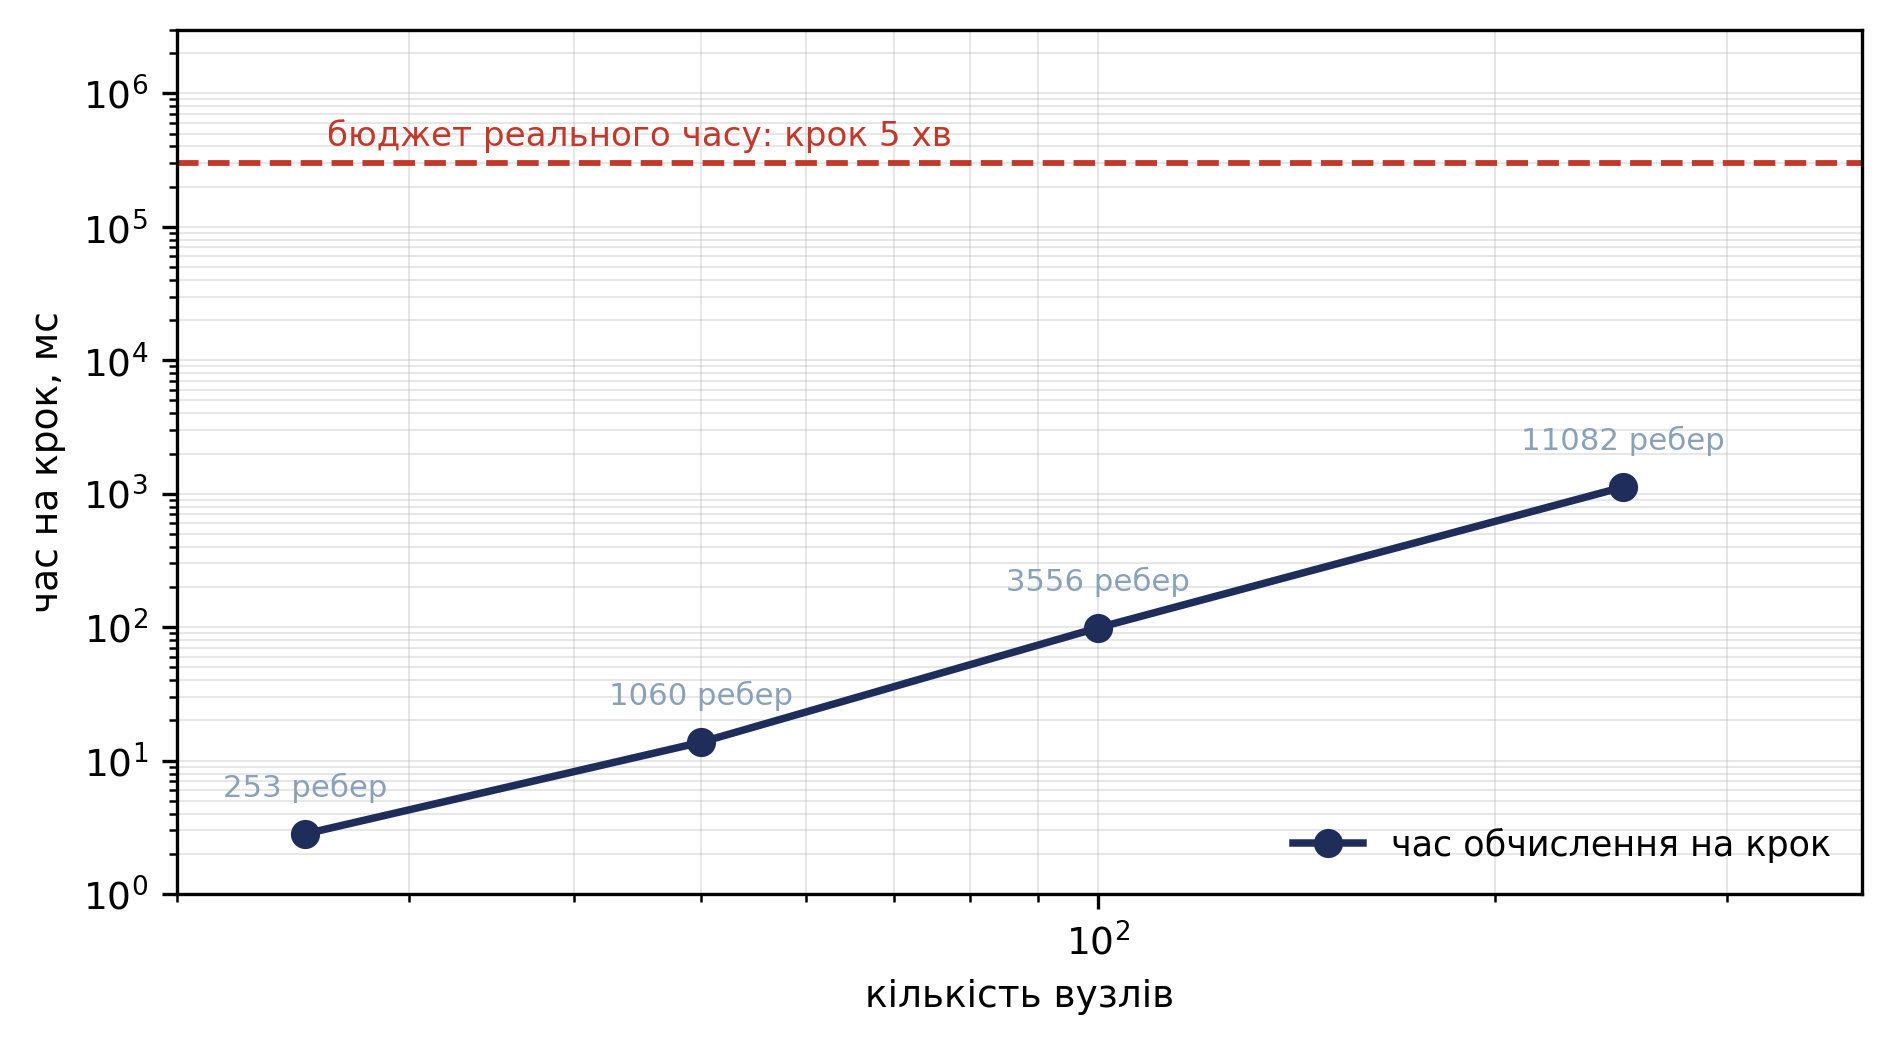
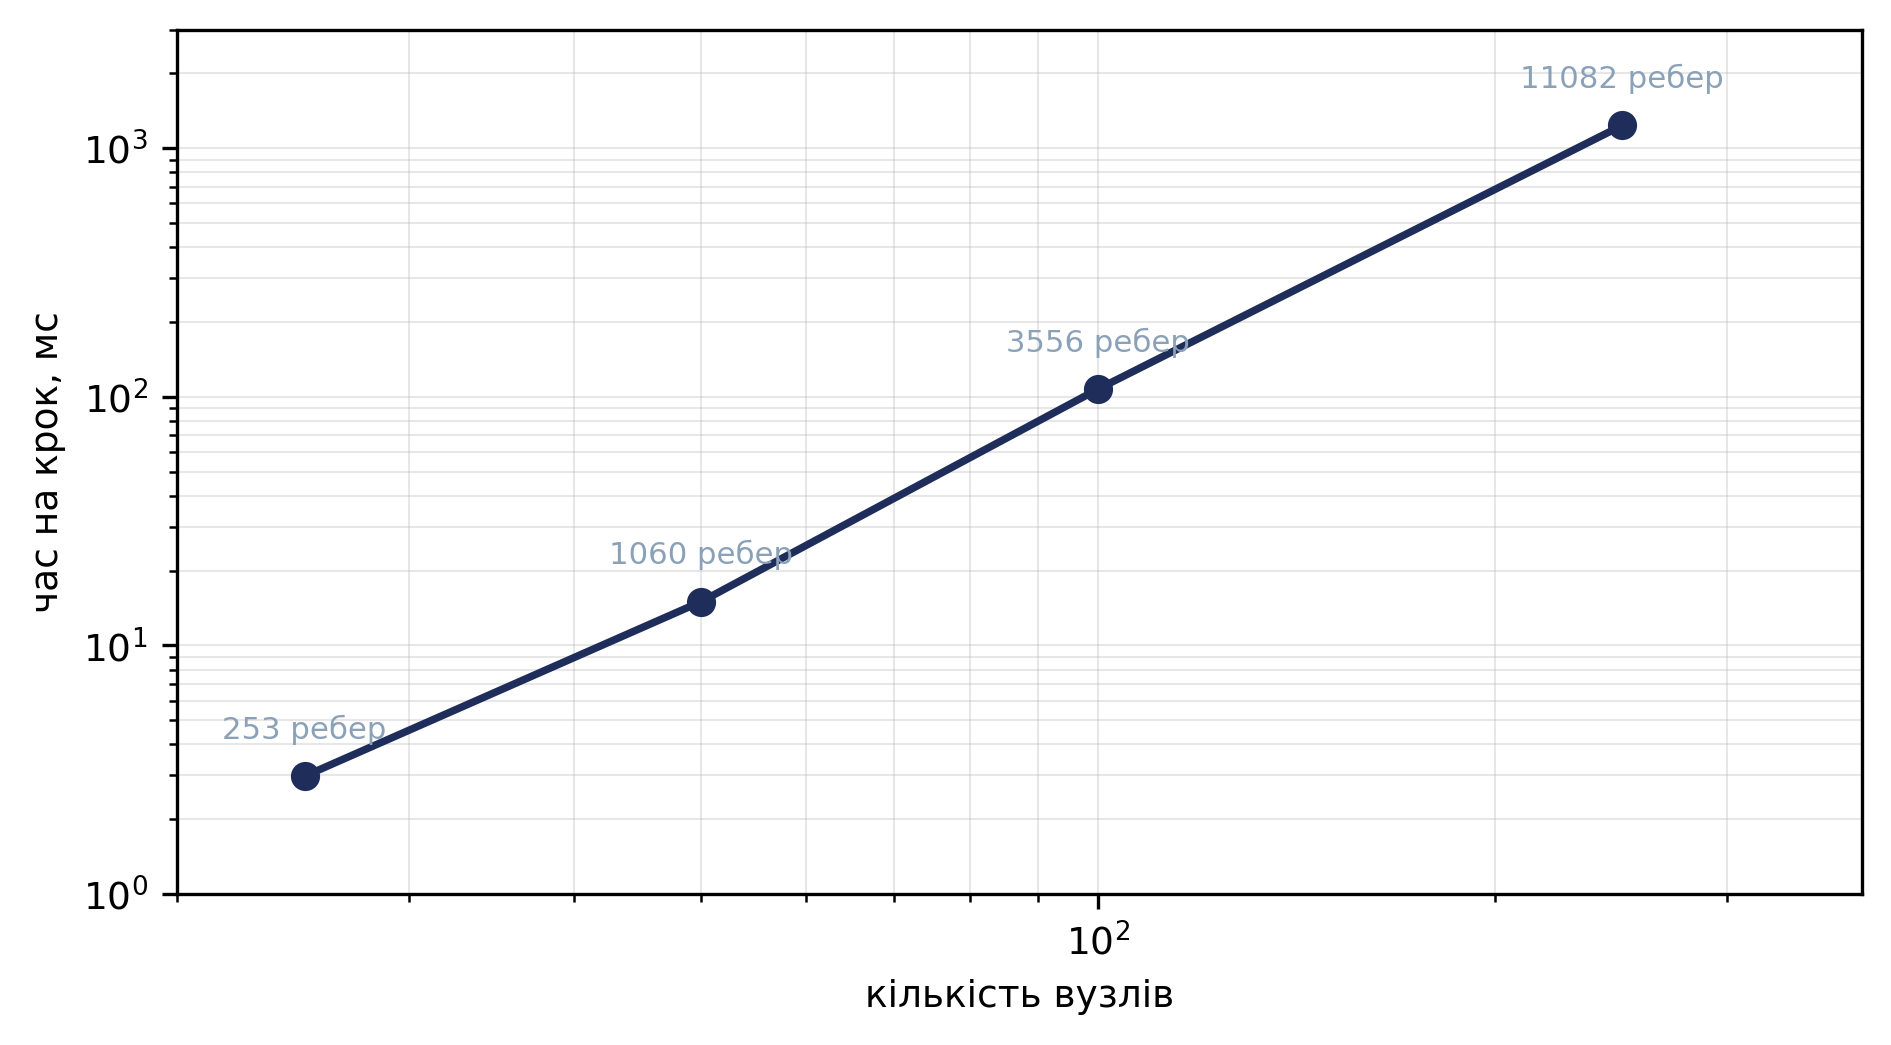
Update figures and figure scripts

diff --git a/figures/sources/figures2.py b/figures/sources/figures2.py
@@ -29,7 +29,7 @@ groups = {}
 for r in rows:
     groups.setdefault(r["parameter"], []).append(r)
 titles = {"admissible age scale": "а) масштаб допустимого віку даних",
-          "kappa": "б) коефіцієнт погіршення каналу κ",
+          "kappa": "б) коефіцієнт погіршення умов зв’язку κ",
           "worker reliability": "в) достовірність спостережень працівника"}
 fig, axs = plt.subplots(1, 3, figsize=(10.5, 3.3))
 for ax, (key, title) in zip(axs, titles.items()):
@@ -60,17 +60,15 @@ ms = [num(r["median ms/step"]) for r in sc]
 ed = [int(r["mean directed edges"]) for r in sc]
 fig, ax = plt.subplots(figsize=(6.4, 3.6))
 ax.loglog(n, ms, marker="o", ms=6, lw=1.8, color=NAVY, label="час обчислення на крок")
-ax.axhline(300000, color="#c0392b", lw=1.4, ls="--")
-ax.text(26, 300000 * 1.35, "бюджет реального часу: крок 5 хв", fontsize=8.2, color="#c0392b")
 for x, y, e in zip(n, ms, ed):
     ax.annotate(f"{e} ребер", (x, y), textcoords="offset points", xytext=(0, 9), ha="center",
                 fontsize=7.4, color=GREY)
 ax.set_xlabel("кількість вузлів")
 ax.set_ylabel("час на крок, мс")
-ax.set_ylim(1.0, 3e6)
+ax.set_ylim(1.0, 3e3)
 ax.set_xlim(20, 380)
 ax.grid(alpha=.3, which="both", lw=.5)
-ax.legend(fontsize=8.4, frameon=False, loc="lower right")
+
 plt.tight_layout()
 plt.savefig(OUT + "/fig_scalability.png", dpi=300, bbox_inches="tight")
 plt.close()

diff --git a/figures/sources/figs.py b/figures/sources/figs.py
@@ -22,7 +22,7 @@ STYLE = {
     "uav":     dict(m="P", c="#8e44ad", s=90),
     "worker":  dict(m="*", c="#d4a017", s=120),
 }
-LABEL = {"CC": "Центр керування", "relay": "Береговий шлюз", "sensor": "Датчик (буй)",
+LABEL = {"CC": "Центр керування", "relay": "Береговий шлюз LoRaWAN", "sensor": "Датчик (буй)",
          "tanker": "Танкер", "service": "Судно портового флоту", "uav": "БПЛА",
          "worker": "Працівник (рація + UWB)"}
 
@@ -54,7 +54,7 @@ def snapshot(ax, t, title):
         else:
             d = math.hypot(x2 - x1, y2 - y1) or 1
             ux, uy = (x2 - x1) / d, (y2 - y1) / d
-            ax.annotate("", xy=(x2 - ux * .07, y2 - uy * .07), xytext=(x1 + ux * .07, y1 + uy * .07),
+            ax.annotate("", xy=(x2 - ux * .025, y2 - uy * .025), xytext=(x1 + ux * .015, y1 + uy * .015),
                         arrowprops=dict(arrowstyle="-|>", color="#2a9d8f", lw=.8,
                                         linestyle="dotted", mutation_scale=8), zorder=2)
     for n in CONFIGS["C"]:

diff --git a/figures/sources/fig1.py b/figures/sources/fig1.py
@@ -30,7 +30,7 @@ def arrow(x1, y1, x2, y2, color="#4a5b6e", style="-|>", lw=1.2, ls="-"):
 # --- Учасники ---
 ax.text(50, 98.5, "Учасники порту як вершини темпорального графа $\\mathcal{G}$", ha="center", va="top",
         fontsize=10.5, weight="bold", color=NAVY)
-parts = ["Датчики\nводного\nсередовища", "Судна\n(AIS, радіо,\nсенсори)", "Берегові\nшлюзи і\nстанції",
+parts = ["Датчики\nводного\nсередовища", "Судна\n(AIS, радіо,\nсенсори)", "Берегові\nшлюзи LoRaWAN\nі станції",
          "БПЛА", "Працівники\n(рація,\nUWB-бейдж)", "Центр\nкерування"]
 pw, gap = 14.2, 1.6
 x0 = (100 - (6 * pw + 5 * gap)) / 2
